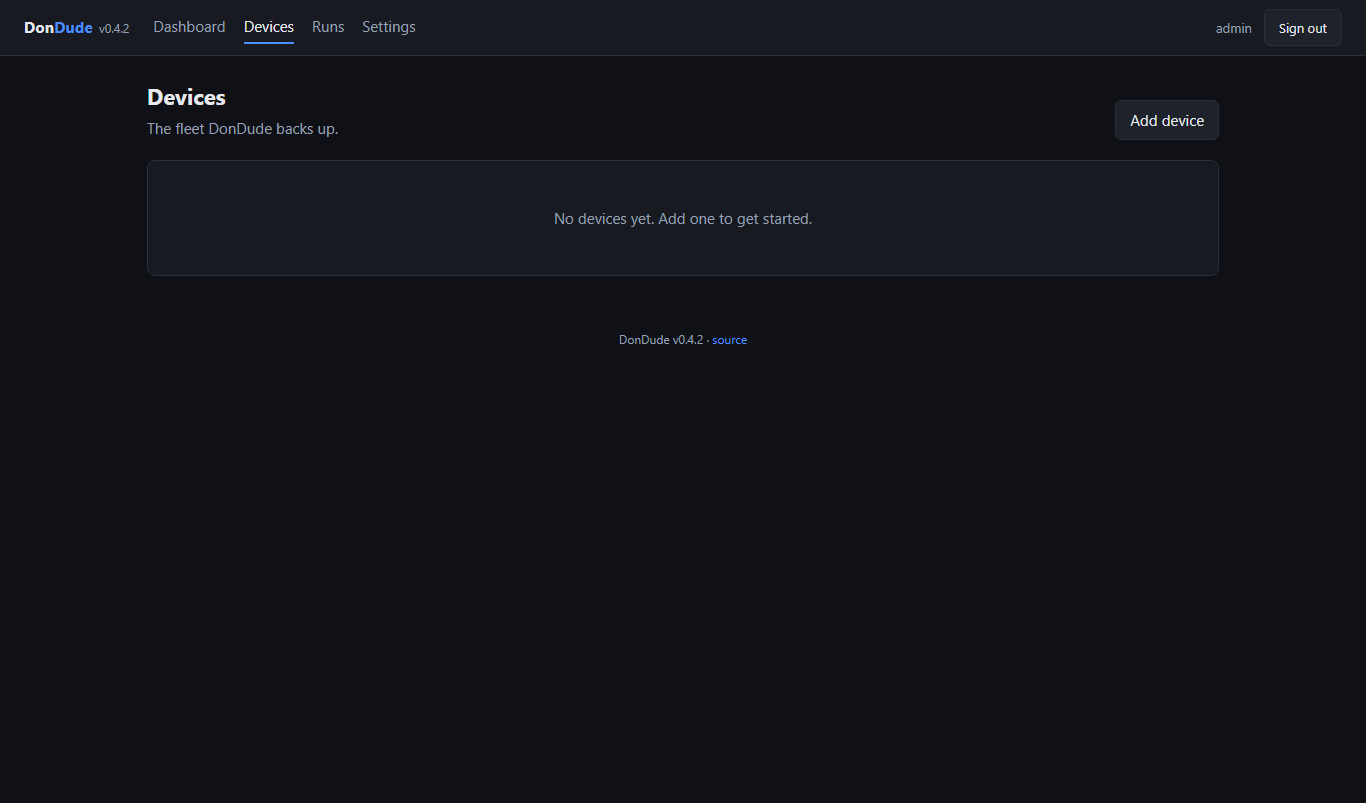
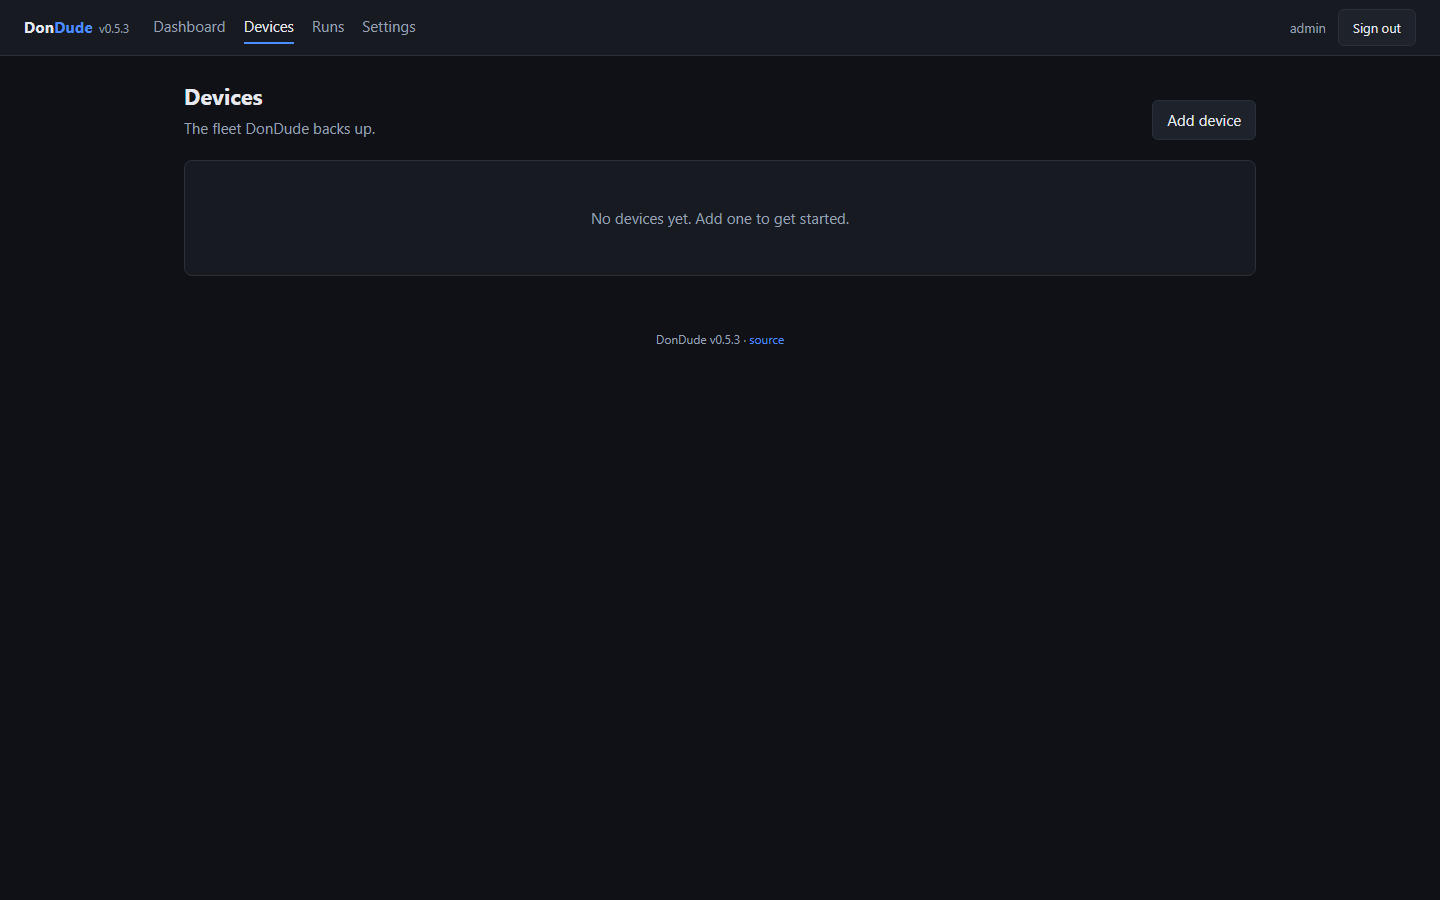
v0.5.4: clippy-clean workspace + fresh screenshots (v0.5.3 empty states, placeholder data only)

diff --git a/src/main.rs b/src/main.rs
@@ -1029,7 +1029,7 @@ async fn update_command(action: UpdateCommand) -> Result<ExitCode> {
         .args(["stash"])
         .current_dir(&dir)
         .status()?;
-    bail_if_not(stash.success(), "git stash failed");
+    bail_if_not(stash.success(), "git stash failed")?;
 
     println!("  pulling latest code");
     let pull = std::process::Command::new("git")
@@ -1039,7 +1039,7 @@ async fn update_command(action: UpdateCommand) -> Result<ExitCode> {
     bail_if_not(
         pull.success(),
         "git pull --ff-only failed — resolve and retry",
-    );
+    )?;
 
     let pop = std::process::Command::new("git")
         .args(["stash", "pop"])
@@ -1055,14 +1055,14 @@ async fn update_command(action: UpdateCommand) -> Result<ExitCode> {
         .args(["compose", "build", "app"])
         .current_dir(&dir)
         .status()?;
-    bail_if_not(build.success(), "docker compose build failed");
+    bail_if_not(build.success(), "docker compose build failed")?;
 
     println!("  switching to the new image");
     let up = std::process::Command::new("docker")
         .args(["compose", "up", "-d"])
         .current_dir(&dir)
         .status()?;
-    bail_if_not(up.success(), "docker compose up -d failed");
+    bail_if_not(up.success(), "docker compose up -d failed")?;
 
     println!("Update complete. The old image can be pruned with:");
     println!("  docker image prune -f");
@@ -1166,7 +1166,7 @@ async fn monitor_poll() -> Result<ExitCode> {
 /// second key to lose. Without the key the backup is unreadable — keep a
 /// copy of it somewhere safe, as the manual says.
 async fn db_backup(db: &Db, dir: &Path) -> Result<ExitCode> {
-    let key = db.key().clone();
+    let key = db.key();
 
     let sql = db.dump_sql().await?;
 
@@ -1183,7 +1183,7 @@ async fn db_backup(db: &Db, dir: &Path) -> Result<ExitCode> {
 
     let timestamp = chrono::Utc::now().format("%Y%m%d-%H%M%S");
     let path = dir.join(format!("dondude-backup-{timestamp}.dud"));
-    input.write_archive(&path, &key)?;
+    input.write_archive(&path, key)?;
 
     println!("Backup written: {}", path.display());
     println!();
@@ -1204,8 +1204,8 @@ async fn db_backup(db: &Db, dir: &Path) -> Result<ExitCode> {
 
 /// Restore a deployment from an archive. Destructive: asks first.
 async fn db_restore(db: &Db, file: &Path, yes: bool, write_env: bool) -> Result<ExitCode> {
-    let key = db.key().clone();
-    let archive = mikrotik_dondude::backup_archive::Archive::read(file, &key)?;
+    let key = db.key();
+    let archive = mikrotik_dondude::backup_archive::Archive::read(file, key)?;
 
     println!(
         "Archive created {} by DonDude {}",
@@ -1235,15 +1235,13 @@ async fn db_restore(db: &Db, file: &Path, yes: bool, write_env: bool) -> Result<
     db.restore_sql(&sql).await?;
     println!("Database restored.");
 
-    if write_env {
-        if let Some(env) = archive.file(".env") {
-            let target = PathBuf::from(".env.restored");
-            std::fs::write(&target, env)?;
-            println!(
-                ".env written to {} — review and replace your .env.",
-                target.display()
-            );
-        }
+    if write_env && let Some(env) = archive.file(".env") {
+        let target = PathBuf::from(".env.restored");
+        std::fs::write(&target, env)?;
+        println!(
+            ".env written to {} — review and replace your .env.",
+            target.display()
+        );
     }
     Ok(ExitCode::SUCCESS)
 }

diff --git a/src/web/views.rs b/src/web/views.rs
@@ -257,6 +257,7 @@ pub fn setup(error: Option<&str>) -> Markup {
 // Dashboard
 // ---------------------------------------------------------------------------
 
+#[allow(clippy::too_many_arguments)] // one argument per rendered column
 pub fn dashboard(
     user: &User,
     devices: &[DeviceRow],
@@ -570,6 +571,7 @@ pub fn device_form(
 }
 
 /// A device's commit history, plus its recent run outcomes.
+#[allow(clippy::too_many_arguments)] // one argument per rendered column
 pub fn device_history(
     user: &User,
     device: &DeviceRow,
@@ -1474,14 +1476,6 @@ fn uptime(secs: Option<i64>) -> Markup {
             let (hours, mins) = (rem / 3_600, rem % 3_600 / 60);
             html! { (days) "d " (hours) "h " (mins) "m" }
         }
-        None => html! { span.muted { "—" } },
-    }
-}
-
-/// "24.1 V", or a dash when the board has no voltage sensor.
-fn volts(value: Option<f64>) -> Markup {
-    match value {
-        Some(value) => html! { (format!("{:.1} V", value)) },
         None => html! { span.muted { "—" } },
     }
 }

diff --git a/src/routeros/ssh.rs b/src/routeros/ssh.rs
@@ -261,12 +261,12 @@ impl SshSession {
     pub fn download_file(&self, remote_path: &str) -> Result<Vec<u8>, DeviceError> {
         debug!(host = %self.target.host, remote_path, "file download");
         let sftp = self.session.sftp();
-        if let Ok(sftp) = &sftp {
-            if let Ok(mut file) = sftp.open(std::path::Path::new(remote_path)) {
-                let mut bytes = Vec::new();
-                if file.read_to_end(&mut bytes).is_ok() && !bytes.is_empty() {
-                    return Ok(bytes);
-                }
+        if let Ok(sftp) = &sftp
+            && let Ok(mut file) = sftp.open(std::path::Path::new(remote_path))
+        {
+            let mut bytes = Vec::new();
+            if file.read_to_end(&mut bytes).is_ok() && !bytes.is_empty() {
+                return Ok(bytes);
             }
         }
         // Fallback: legacy SCP protocol.

diff --git a/src/web/routes.rs b/src/web/routes.rs
@@ -812,7 +812,7 @@ pub async fn download_backup(
         env_file: read_env_file(),
         known_hosts: read_known_hosts(),
     };
-    let bytes = input.archive_bytes(&state.db.key())?;
+    let bytes = input.archive_bytes(state.db.key())?;
 
     let timestamp = chrono::Utc::now().format("%Y%m%d-%H%M%S");
     let filename = format!("dondude-backup-{timestamp}.dud");

diff --git a/src/monitor.rs b/src/monitor.rs
@@ -404,7 +404,6 @@ mod tests {
 
 #[cfg(test)]
 mod knot_parse_tests {
-    use super::*;
 
     #[test]
     fn parse_knot_like_output() {

diff --git a/CHANGELOG.md b/CHANGELOG.md
@@ -1,5 +1,18 @@
 # Changelog
 
+## [0.5.4] - 2026-09-03
+
+### Fixed
+- Clippy is now clean across the whole workspace: the ignored `Result`s in
+  `update now` are propagated, the dead `volts` helper is gone, and the two
+  view functions that legitimately take one argument per rendered column
+  carry an explained `allow(too_many_arguments)`.
+
+### Docs
+- The README screenshots were recaptured from a fresh v0.5.3 install:
+  empty-state pages with placeholder data only (no real fleet names or
+  addresses), current version in the header, favicon in the tab.
+
 ## [0.5.3] - 2026-09-03
 
 ### Added

diff --git a/README.md b/README.md
@@ -6,7 +6,7 @@ New here? [READMEFIRST.md](READMEFIRST.md) picks the right path
 Multi-tenant management platform for MikroTik RouterOS fleets, with a web
 interface. A modular Rust rewrite of *the-other-dude*.
 
-Current version: **0.5.3** (see
+Current version: **0.5.4** (see
 [releases](https://github.com/rimpianto/mikrotik.DonDude/releases)).
 
 **Phase 1 (implemented): Git-versioned configuration backups.** DonDude connects
